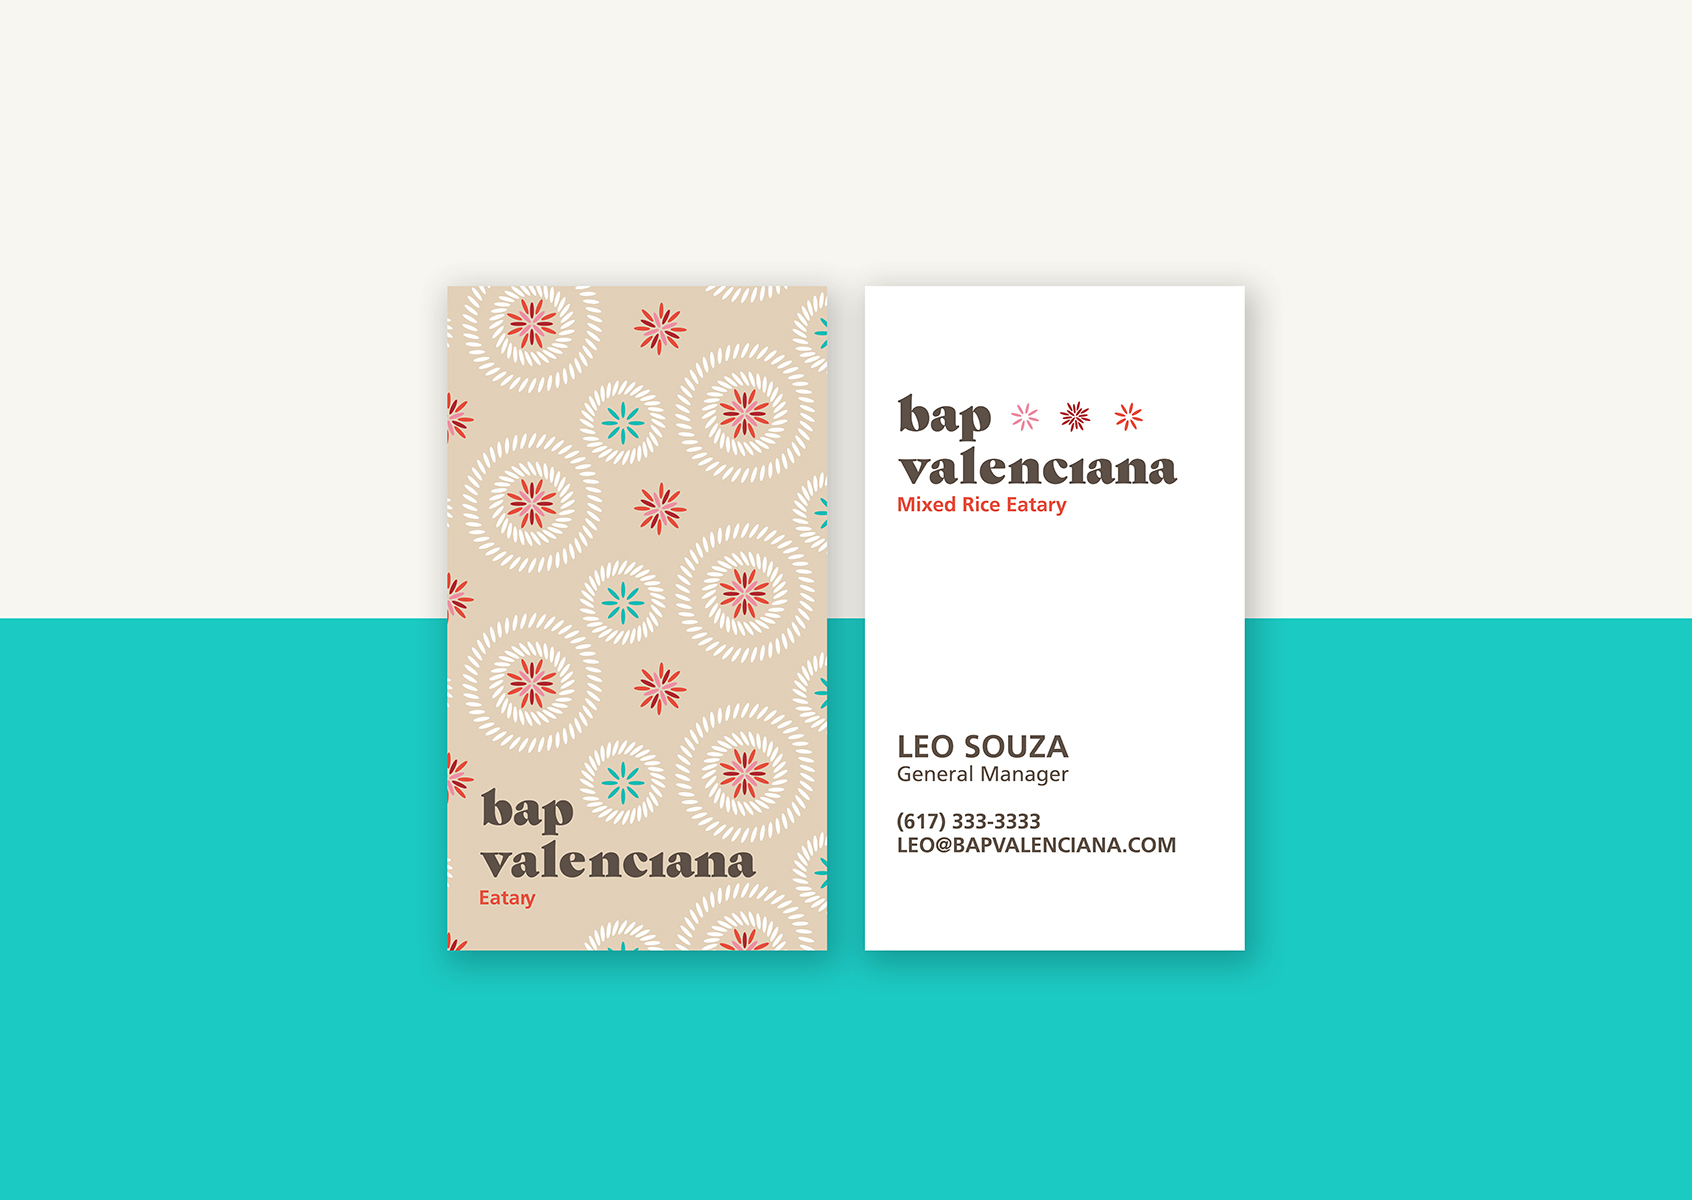
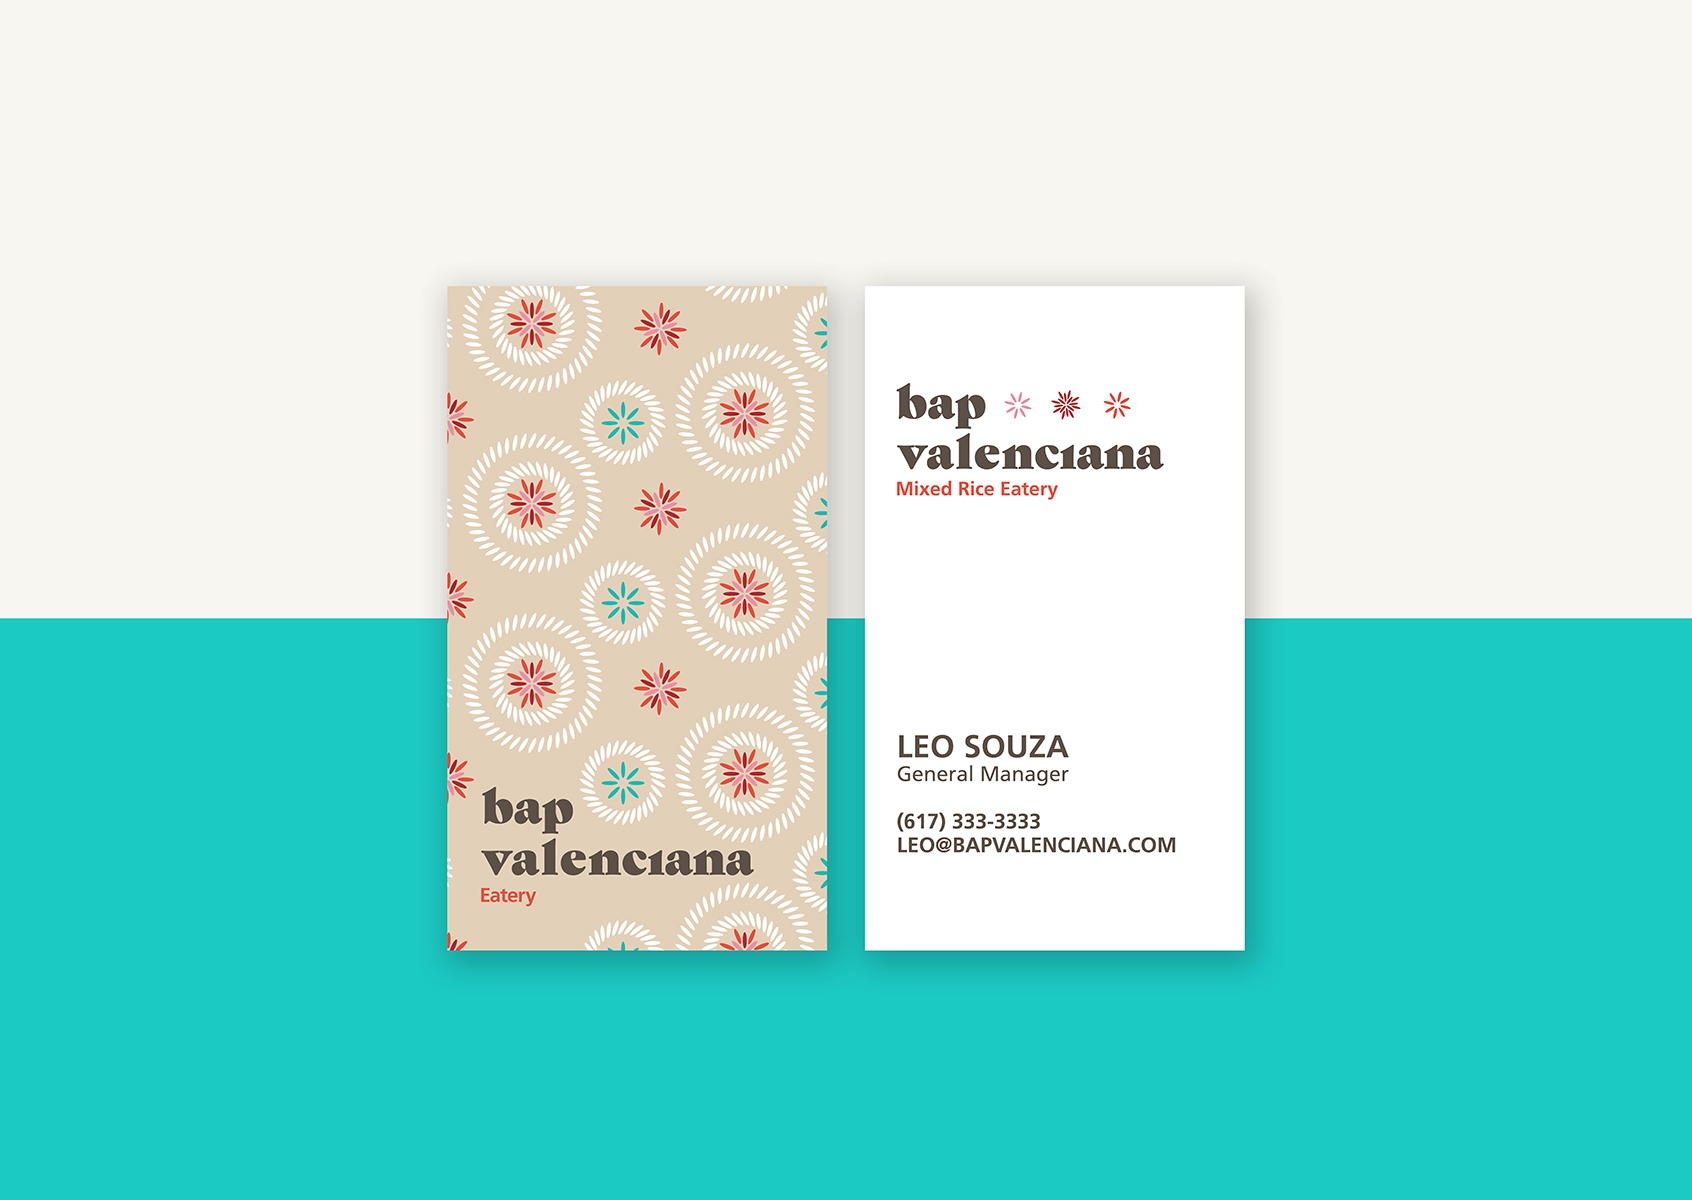
Corrected Eatery

Changed region(s): [[0.5225, 0.3083, 0.7069, 0.4317], [0.2766, 0.6475, 0.461, 0.7708]]

diff --git a/projects/bapvalenciana/index.html b/projects/bapvalenciana/index.html
@@ -101,7 +101,7 @@
   <header class="post-header">
     <img src="/assets/images/Store_Sign_Mockup.jpg">
     <h2 class="post-title">Bap Valenciana Restaurant Branding</h2>
-    <h4 class="post-subtitle">Bap Valenciana is a mixed rice eatary that blends the tradition of Korean mixed rice and Valencian Spanish paella. With a sophisticated but approachable look, this eatary, is the perfect place to get lunch or stop by with friends after work for a casual dinner.</h4>
+    <h4 class="post-subtitle">Bap Valenciana is a mixed rice eatery that blends the tradition of Korean mixed rice and Valencian Spanish paella. With a sophisticated but approachable look, this eatery, is the perfect place to get lunch or stop by with friends after work for a casual dinner.</h4>
   </header>
 
 
